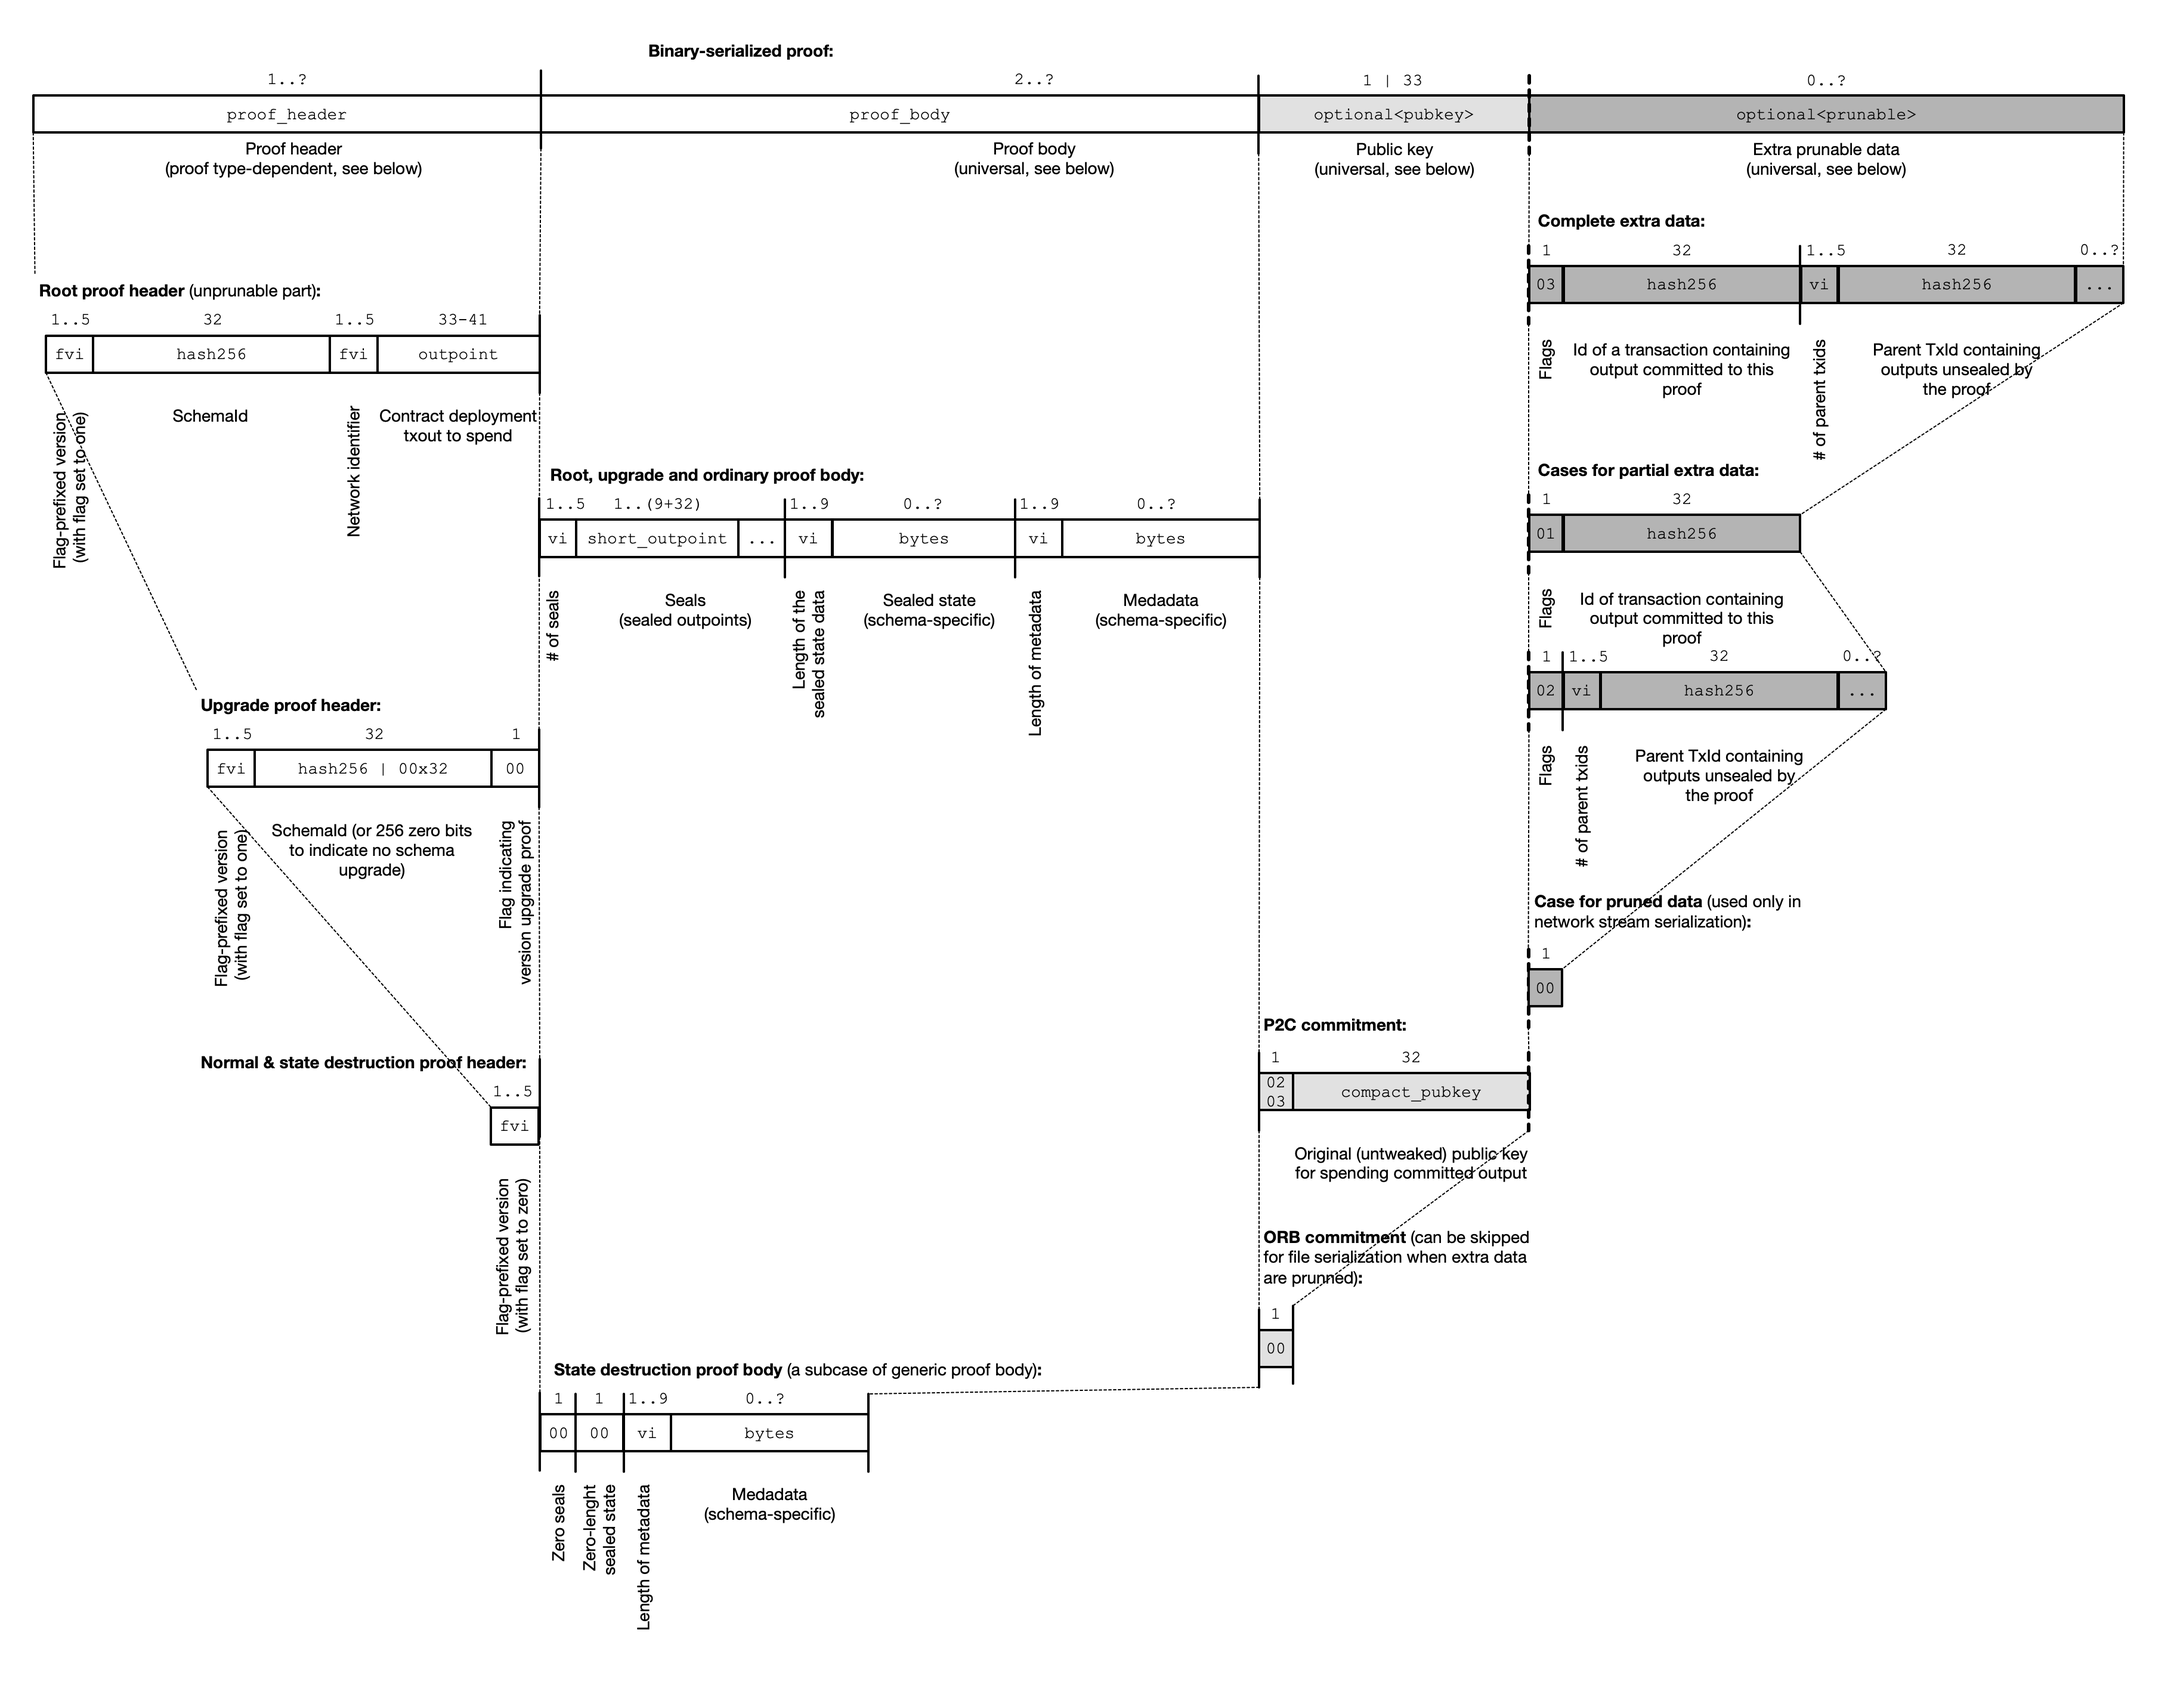
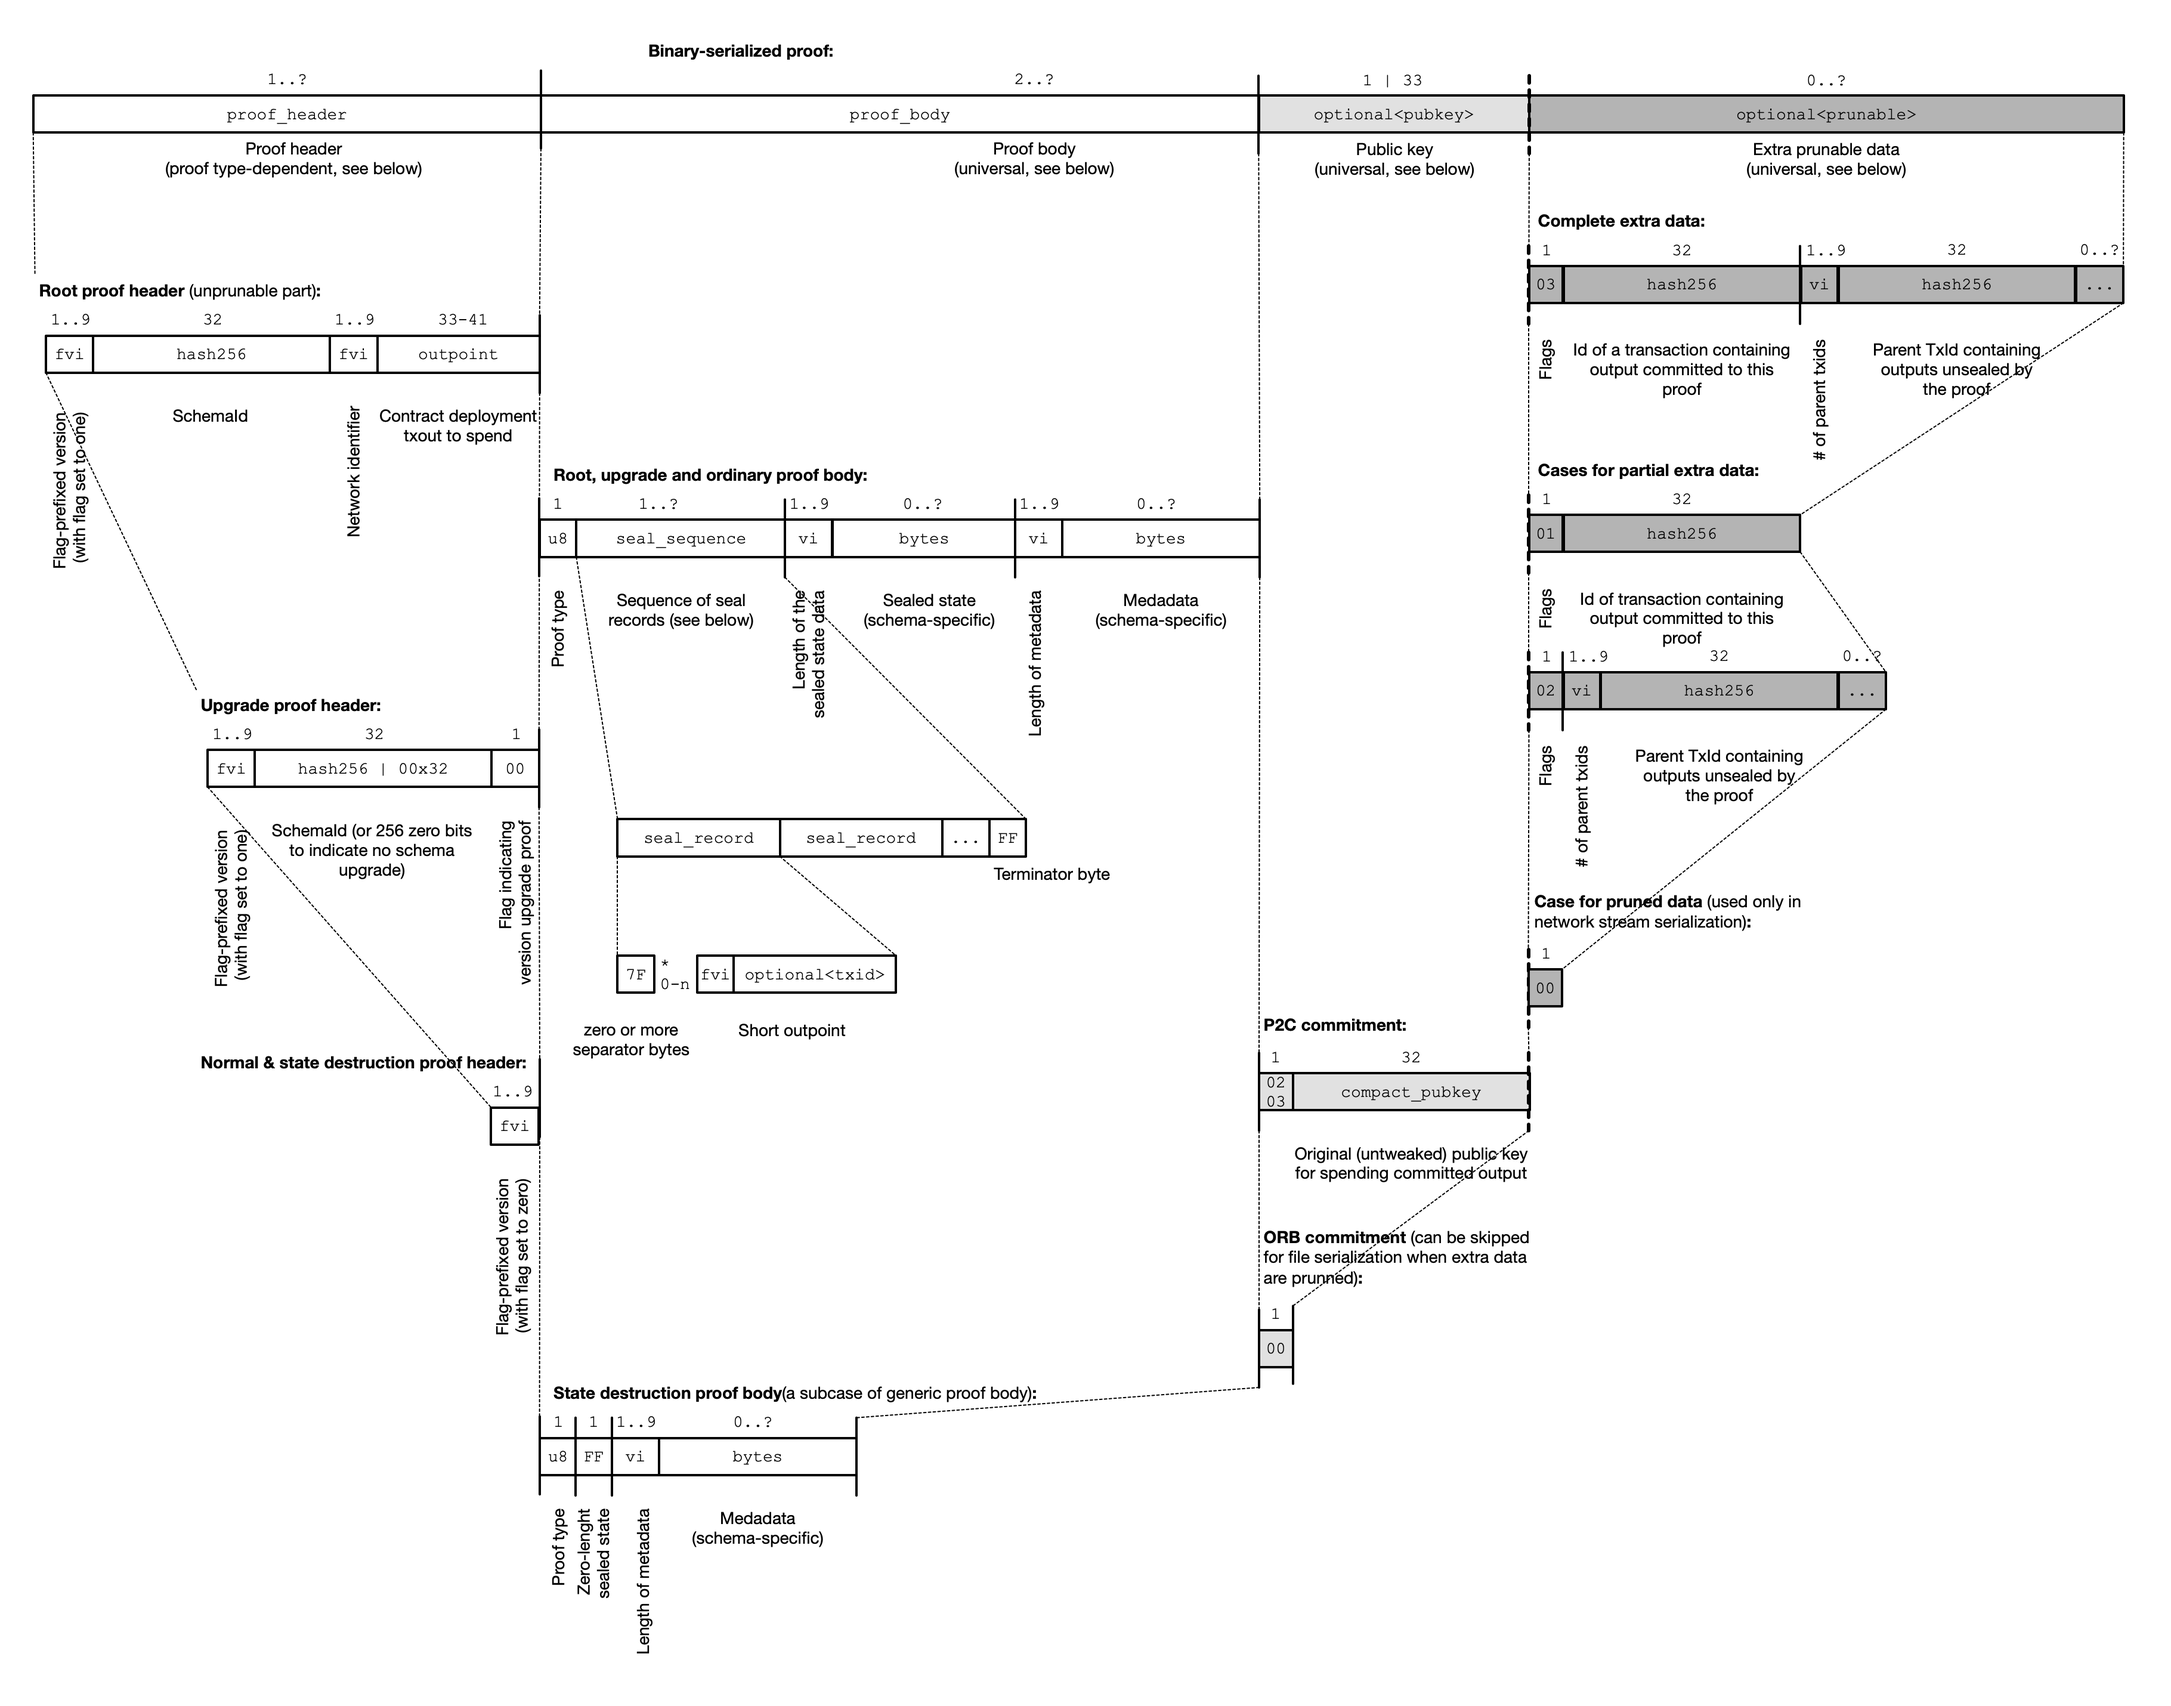
Updates to serialization formats

diff --git a/01-OpenSeals.md b/01-OpenSeals.md
@@ -420,12 +420,18 @@ of off-chain client-side stored data. These types are:
 and supports values only up to 32-bit integers. In general, it helps to save a byte on signaling some information inside
 the proofs and seals.
 
+Since fvi is used with the data that are less than 2^23 (like transaction output numbers, `vouts`, or number of seals
+within a single proof), values of `0x7F` and `0xFF` in the first byte has a special meaning: instead of representing
+following 64-bit integer (like `0xFF` first byte does in bitcoin variable integer), it is reserved to function as a 
+"flagged data separator": it is not followed by any integer value and has contectual meaning which can be used depending
+on the protocol.
+
 ```
 <124      -> _ * * *   * * * * : 
 124-255   -> _ 1 1 1   1 1 0 0 : * * * *   * * * *
 256-2^16  -> _ 1 1 1   1 1 0 1 : * * * *   * * * * : * * * *   * * * *
 2^16-2^32 -> _ 1 1 1   1 1 1 0 : * * * *   * * * * : * * * *   * * * * : * * * *   * * * * : * * * *   * * * *
-2^32-2^64 -> _ 1 1 1   1 1 1 1 : * * * *   * * * * : * * * *   * * * * : * * * *   * * * * : * * * *   * * * *  : * * * *   * * * * : * * * *   * * * * : * * * *   * * * * : * * * *   * * * *
+separator -> _ 1 1 1   1 1 1 1
 ```
 
 (* is a wildcard for bytes that can have any value, i.e. used to encode the actual integer).
@@ -576,31 +582,32 @@ seals:
 ```
 
 ```
-00000000  81 2d 2b 27 81 96 3b a6  41 62 1e c1 eb 72 fb 7a  |.-+'..;.Ab...r.z|
-00000010  6e 24 4f 67 24 3b ec 95  3a f8 f7 68 ff 90 09 d1  |n$Og$;..:..h....|
-00000020  fe 02 57 00 bd cc fc 62  09 a5 46 0d c1 24 40 3e  |..W....b..F..$@>|
+00000000  81 2f 79 45 ba 87 14 6b  dc cb 7a be 25 3a 26 7f  |./yE...k..z.%:&.|
+00000010  67 14 16 f2 60 53 38 6a  13 62 b4 23 12 25 23 e8  |g...`S8j.b.#.%#.|
+00000020  8d 02 57 00 bd cc fc 62  09 a5 46 0d c1 24 40 3e  |..W....b..F..$@>|
 00000030  ed 6c 3f 5b a5 8d a0 12  3b 39 2a b0 b1 fa 23 30  |.l?[....;9*...#0|
-00000040  6f 27 04 04 00 57 00 bd  cc fc 62 09 a5 46 0d c1  |o'...W....b..F..|
+00000040  6f 27 04 00 00 57 00 bd  cc fc 62 09 a5 46 0d c1  |o'...W....b..F..|
 00000050  24 40 3e ed 6c 3f 5b a5  8d a0 12 3b 39 2a b0 b1  |$@>.l?[....;9*..|
-00000060  fa 23 30 6f 27 01 57 00  bd cc fc 62 09 a5 46 0d  |.#0o'.W....b..F.|
-00000070  c1 24 40 3e ed 6c 3f 5b  a5 8d a0 12 3b 39 2a b0  |.$@>.l?[....;9*.|
-00000080  b1 fa 23 30 6f 27 03 57  00 bd cc fc 62 09 a5 46  |..#0o'.W....b..F|
-00000090  0d c1 24 40 3e ed 6c 3f  5b a5 8d a0 12 3b 39 2a  |..$@>.l?[....;9*|
-000000a0  b0 b1 fa 23 30 6f 27 02  57 00 bd cc fc 62 09 a5  |...#0o'.W....b..|
-000000b0  46 0d c1 24 40 3e ed 6c  3f 5b a5 8d a0 12 3b 39  |F..$@>.l?[....;9|
-000000c0  2a b0 b1 fa 23 30 6f 27  05 fe 40 42 0f 00 20 1a  |*...#0o'..@B.. .|
-000000d0  50 72 69 76 61 74 65 20  43 6f 6d 70 61 6e 79 20  |Private Company |
-000000e0  4c 74 64 20 53 68 61 72  65 73 03 50 4c 53 01 02  |Ltd Shares.PLS..|
-000000f0  62 b0 6c b2 05 c3 de 54  71 7e 0b c0 ea b2 08 8b  |b.l....Tq~......|
-00000100  0e db 9b 63 fa b4 99 f6  ca c8 75 48 ca 20 5b e1  |...c......uH. [.|
-0```
+00000060  fa 23 30 6f 27 7f 01 57  00 bd cc fc 62 09 a5 46  |.#0o'..W....b..F|
+00000070  0d c1 24 40 3e ed 6c 3f  5b a5 8d a0 12 3b 39 2a  |..$@>.l?[....;9*|
+00000080  b0 b1 fa 23 30 6f 27 7f  03 57 00 bd cc fc 62 09  |...#0o'..W....b.|
+00000090  a5 46 0d c1 24 40 3e ed  6c 3f 5b a5 8d a0 12 3b  |.F..$@>.l?[....;|
+000000a0  39 2a b0 b1 fa 23 30 6f  27 7f 02 57 00 bd cc fc  |9*...#0o'..W....|
+000000b0  62 09 a5 46 0d c1 24 40  3e ed 6c 3f 5b a5 8d a0  |b..F..$@>.l?[...|
+000000c0  12 3b 39 2a b0 b1 fa 23  30 6f 27 ff 05 fe 40 42  |.;9*...#0o'...@B|
+000000d0  0f 00 24 03 50 4c 53 1a  50 72 69 76 61 74 65 20  |..$.PLS.Private |
+000000e0  43 6f 6d 70 61 6e 79 20  4c 74 64 20 53 68 61 72  |Company Ltd Shar|
+000000f0  65 73 00 00 ff 01 00 02  62 b0 6c b2 05 c3 de 54  |es......b.l....T|
+00000100  71 7e 0b c0 ea b2 08 8b  0e db 9b 63 fa b4 99 f6  |q~.........c....|
+00000110  ca c8 75 48 ca 20 5b e1                           |..uH. [.|
+```
 
 ```
 0000000 81                                                  Flag-prefixed version
 
-0000000    2d 2b 27 81 96 3b a6 41 62 1e c1 eb 72 fb 7a     Schema ID
-0000010 6e 24 4f 67 24 3b ec 95 3a f8 f7 68 ff 90 09 d1     sm1p954j0qvk8wnyzcs7c84h97m6dcjy7eey80kf2whc7a50lyqf68lq0claj8
-0000020 fe 
+0000000    2f 79 45 ba 87 14 6b dc cb 7a be 25 3a 26 7f     Schema ID
+0000010 67 14 16 f2 60 53 38 6a 13 62 b4 23 12 25 23 e8     sm1p9au5tw58z34aejm6hcjn5fnlvu2pdunq2vux5ymzks33yffrazxskfnvz5
+0000020 8d 
 
 0000020    02                                               Network identifier (bitcoin testnet)
 
@@ -608,44 +615,61 @@ seals:
 0000030 ed 6c 3f 5b a5 8d a0 12 3b 39 2a b0 b1 fa 23 30     5700bdccfc6209a5460dc124403eed6c3f5ba58da0123b392ab0b1fa23306f27:4
 0000040 6f 27 04 
 
-0000040          04                                         Number of seals
+0000040          00                                         Proof type code
 
 0000040             00 57 00 bd cc fc 62 09 a5 46 0d c1     Seal #1 short outpoint
 0000050 24 40 3e ed 6c 3f 5b a5 8d a0 12 3b 39 2a b0 b1
 0000060 fa 23 30 6f 27 
 
-0000060                01 57 00 bd cc fc 62 09 a5 46 0d     Seal #2 short outpoint
-0000070 c1 24 40 3e ed 6c 3f 5b a5 8d a0 12 3b 39 2a b0
-0000080 b1 fa 23 30 6f 27 
+0000060                7f                                   Special byte signalling seal type switch
 
-0000080                   03 57 00 bd cc fc 62 09 a5 46     Seal #3 short outpoint
-0000090 0d c1 24 40 3e ed 6c 3f 5b a5 8d a0 12 3b 39 2a
-00000a0 b0 b1 fa 23 30 6f 27 
+0000060                   01 57 00 bd cc fc 62 09 a5 46     Seal #2 short outpoint
+0000070 0d c1 24 40 3e ed 6c 3f 5b a5 8d a0 12 3b 39 2a
+0000080 b0 b1 fa 23 30 6f 27
 
-00000b0                      02 57 00 bd cc fc 62 09 a5     Seal #4 short outpoint
-00000b0 46 0d c1 24 40 3e ed 6c 3f 5b a5 8d a0 12 3b 39
-00000c0 2a b0 b1 fa 23 30 6f 27
+0000080                      7f                             Special byte signalling seal type switch
 
-00000c0                         05                          Length of sealed state data
+0000080                         03 57 00 bd cc fc 62 09      Seal #3 short outpoint
+0000090 a5 46 0d c1 24 40 3e ed 6c 3f 5b a5 8d a0 12 3b
+00000a0 39 2a b0 b1 fa 23 30 6f 27 
 
-00000c0                            fe 40 42 0f 00           Sealed state
+00000a0                            7f                       Special byte signalling seal type switch
 
-00000c0                                           20        Length of metadata
+00000a0                               02 57 00 bd cc fc     Seal #4 short outpoint
+00000b0 62 09 a5 46 0d c1 24 40 3e ed 6c 3f 5b a5 8d a0
+00000c0 12 3b 39 2a b0 b1 fa 23 30 6f 27 
 
-00000c0                                              1a     String "Private Company Ltd Shares"
-00000d0 50 72 69 76 61 74 65 20 43 6f 6d 70 61 6e 79 20
-00000e0 4c 74 64 20 53 68 61 72 65 73 
+00000c0                                  ff                Special byte signalling end of seal sequence data
 
-00000e0                               03 50 4c 53           String "PLS"
+00000c0                                     05              Length of sealed state data
 
-00000e0                                           01        Dust limit
+00000c0                                        fe 40 42     Sealed state
+00000d0 0f 00
 
-00000e0                                              02     Original public key
-00000f0 62 b0 6c b2 05 c3 de 54 71 7e 0b c0 ea b2 08 8b
-0000100 0e db 9b 63 fa b4 99 f6 ca c8 75 48 ca 20 5b e1
+00000d0       23                                            Length of metadata
+
+00000d0          03 50 4c 53                                Field #1: String "PLS"
+
+00000d0                      1a 50 72 69 76 61 74 65 20     Field #2: String "Private Company Ltd Shares"
+00000e0 43 6f 6d 70 61 6e 79 20 4c 74 64 20 53 68 61 72
+00000f0 65 73
+
+00000f0       00                                            Field #3: No value for `description`
+
+00000f0          00                                         Field #4: No value for `url`
+
+00000f0             ff                                      Field #5: No value for `max_supply`
+
+00000f0                01                                   Field #6: fvi 01 for `dust_limit`
+
+00000f0                   00                                Field #7: No value for `singnature`
+
+00000f0                      02 62 b0 6c b2 05 c3 de 54     Original public key
+0000100 71 7e 0b c0 ea b2 08 8b 0e db 9b 63 fa b4 99 f6
+0000110 ca c8 75 48 ca 20 5b e1                        
 ```
 
-The hash of the proof must be `pf1p5lr9ffjr9fnvtu8cxkf9rruv050wl8c30aykr4frmlkh88z4ckdseqksq3`
+The hash of the proof must be `pf1pad7nmys33tpudflpaq84vp8npruv8xewhkzk2nr9jylc8m5v8k4s96fmkd`
 
 ### Schema test vector
 
@@ -660,16 +684,16 @@ field_types:
   title: str
   description: str
   url: str
-  max_supply: vi
+  max_supply: fvi
   dust_limit: vi
-  signature: signature
+  signature: ecdsa
 seal_types:
   assets: balance
   inflation: none
   upgrade: none
   pruning: none
 proof_types:
-  - title: Primary issue
+  - name: primary_issue
     fields:
       ticker: optional
       title: optional
@@ -683,7 +707,7 @@ proof_types:
       inflation: optional
       upgrade: single
       pruning: single
-  - title: Secondary issue
+  - name: secondary_issue
     unseals:
       inflation: single
     fields:
@@ -693,7 +717,7 @@ proof_types:
       assets: many
       inflation: optional
       pruning: single
-  - title: Asset version upgrade
+  - name: upgrade_signal
     unseals:
       upgrade: single
     fields:
@@ -702,14 +726,14 @@ proof_types:
       signature: optional
     seals:
       upgrade: single
-  - title: Asset history pruning
+  - name: history_prune
     unseals:
       pruning: single
     fields: [ ]
     seals:
       assets: many
       pruning: single
-  - title: Asset transfer
+  - name: asset_transfer
     unseals:
       assets: many
     fields:
@@ -725,20 +749,19 @@ proof_types:
 00000030  68 65 6d 61 10 06 74 69  63 6b 65 72 0b 05 74 69  |hema..ticker..ti|
 00000040  74 6c 65 0b 0b 64 65 73  63 72 69 70 74 69 6f 6e  |tle..description|
 00000050  0b 03 75 72 6c 0b 0a 6d  61 78 5f 73 75 70 70 6c  |..url..max_suppl|
-00000060  79 09 0a 64 75 73 74 5f  6c 69 6d 69 74 09 09 73  |y..dust_limit..s|
+00000060  79 0a 0a 64 75 73 74 5f  6c 69 6d 69 74 09 09 73  |y..dust_limit..s|
 00000070  69 67 6e 61 74 75 72 65  31 04 06 61 73 73 65 74  |ignature1..asset|
 00000080  73 01 09 69 6e 66 6c 61  74 69 6f 6e 00 07 75 70  |s..inflation..up|
 00000090  67 72 61 64 65 00 07 70  72 75 6e 69 6e 67 00 05  |grade..pruning..|
-000000a0  0d 50 72 69 6d 61 72 79  20 69 73 73 75 65 07 02  |.Primary issue..|
+000000a0  0d 70 72 69 6d 61 72 79  5f 69 73 73 75 65 07 02  |.primary_issue..|
 000000b0  00 01 03 00 01 04 00 01  05 00 01 06 00 01 07 01  |................|
 000000c0  01 08 00 01 00 04 00 01  ff 01 00 01 02 01 01 03  |................|
-000000d0  01 01 0f 53 65 63 6f 6e  64 61 72 79 20 69 73 73  |...Secondary iss|
+000000d0  01 01 0f 73 65 63 6f 6e  64 61 72 79 5f 69 73 73  |...secondary_iss|
 000000e0  75 65 02 05 00 01 08 00  01 01 01 01 01 03 00 01  |ue..............|
-000000f0  ff 01 00 01 03 01 01 15  41 73 73 65 74 20 76 65  |........Asset ve|
-00000100  72 73 69 6f 6e 20 75 70  67 72 61 64 65 03 00 01  |rsion upgrade...|
-00000110  01 01 00 01 08 00 01 01  02 01 01 01 02 01 01 15  |................|
-00000120  41 73 73 65 74 20 68 69  73 74 6f 72 79 20 70 72  |Asset history pr|
-00000130  75 6e 69 6e 67 00 01 03  01 01 02 00 01 ff 03 01  |uning...........|
-00000140  01 0e 41 73 73 65 74 20  74 72 61 6e 73 66 65 72  |..Asset transfer|
-00000150  01 00 00 01 01 00 01 ff  01 00 00 ff              |............|
+000000f0  ff 01 00 01 03 01 01 0e  75 70 67 72 61 64 65 5f  |........upgrade_|
+00000100  73 69 67 6e 61 6c 03 00  01 01 01 00 01 08 00 01  |signal..........|
+00000110  01 02 01 01 01 02 01 01  0d 68 69 73 74 6f 72 79  |.........history|
+00000120  5f 70 72 75 6e 65 00 01  03 01 01 02 00 01 ff 03  |_prune..........|
+00000130  01 01 0e 61 73 73 65 74  5f 74 72 61 6e 73 66 65  |...asset_transfe|
+00000140  72 01 00 00 01 01 00 01  ff 01 00 00 ff           |r............|
 ```
